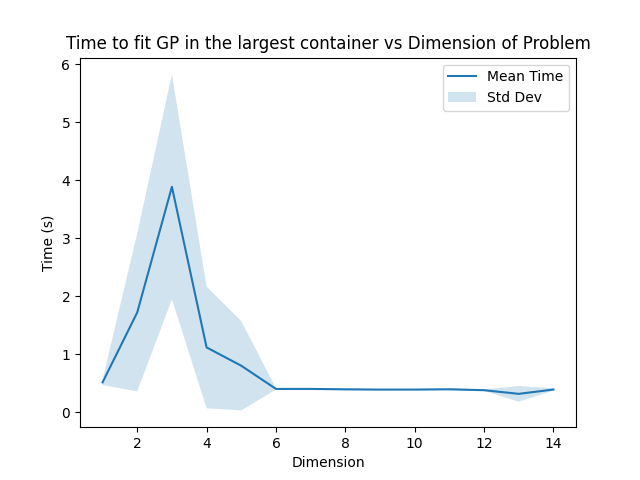
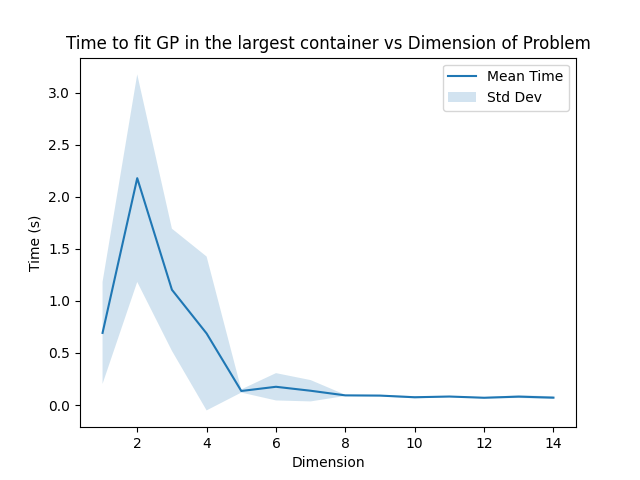
Obtained GP fitting time in single container

diff --git a/examples/local_single_container_GP.py b/examples/local_single_container_GP.py
@@ -4,7 +4,7 @@ import matplotlib.pyplot as plt
 import time
 
 from treeQuadrature.splits import MinSseSplit
-from treeQuadrature.containerIntegration import RbfIntegral
+from treeQuadrature.containerIntegration import RbfIntegral, AdaptiveRbfIntegral
 from treeQuadrature.integrators import SimpleIntegrator
 from treeQuadrature.exampleProblems import Camel
 from treeQuadrature.container import Container
@@ -22,13 +22,13 @@ avg_samples = np.zeros((num_runs, len(Ds)))
 min_samples = np.zeros((num_runs, len(Ds)))
 max_samples = np.zeros((num_runs, len(Ds)))
 
-log_base = np.exp(1)
+log_base = 2
 
 for i in range(num_runs):
     for j, D in enumerate(Ds):
         # increase length scale and GP search range with N
         # integ.integral = RbfIntegral(length = np.log(D+log_base-1) / np.log(log_base), range = 500 * np.log(D+1))
-        integ.integral = RbfIntegral(length = D * 3, range = 500 * np.log(D+1))
+        integ.integral = AdaptiveRbfIntegral(sample_scaling='exponential')
 
         base_N = int(N * np.log(D+log_base-1) / np.log(log_base))
         print(f'Run {i+1}, D={D}, base_N={base_N}')
@@ -44,10 +44,12 @@ for i in range(num_runs):
         min_samples[i, j] = np.min(container_samples)
         max_samples[i, j] = np.max(container_samples)
 
+        min_cont_size = min([cont.volume for cont in containers])
+
         largest_container = max(containers, key=lambda container: container.N)
 
         start_time = time.time()
-        integ.integral.containerIntegral(largest_container, problem.integrand)
+        integ.integral.containerIntegral(largest_container, problem.integrand, min_cont_size)
         end_time = time.time()
 
         n_cont = len(containers)
